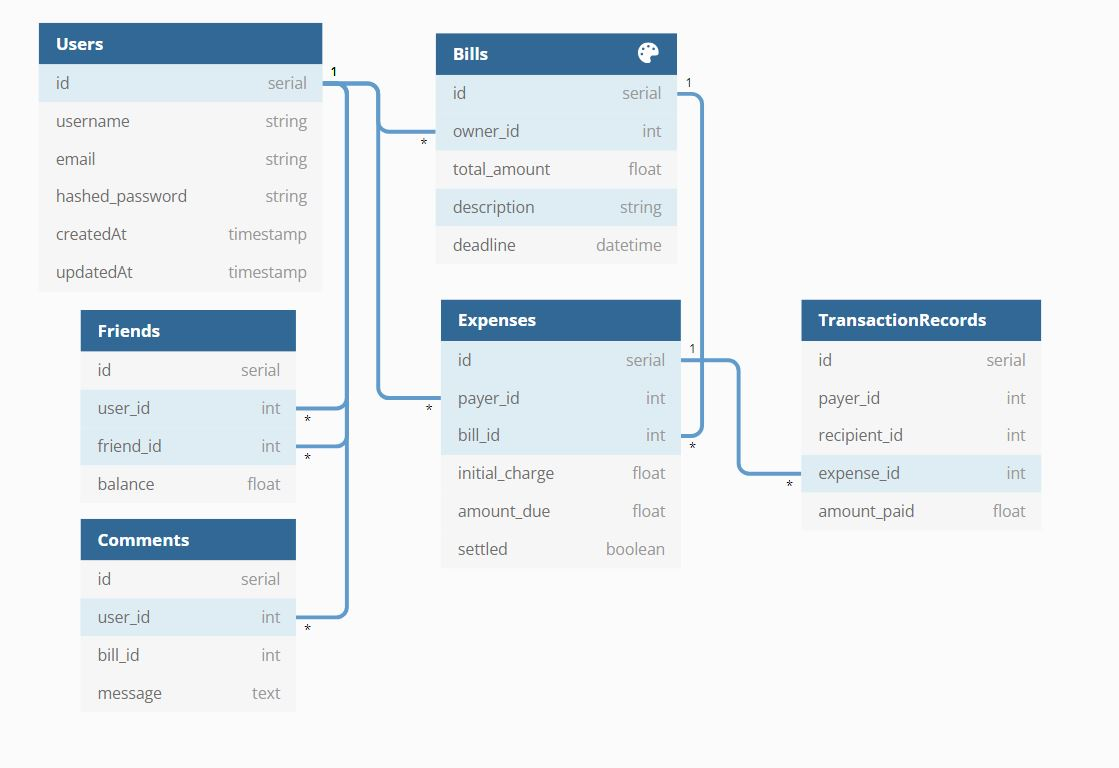
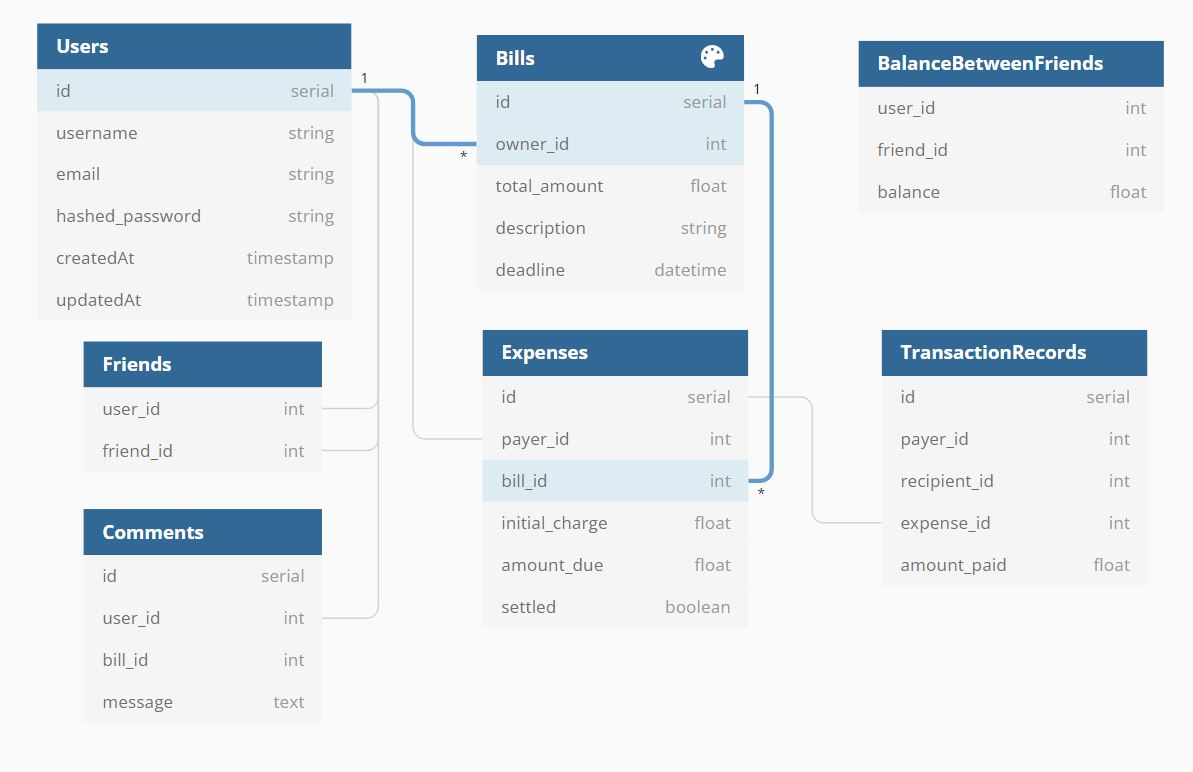
models updated

diff --git a/models.py b/models.py
@@ -1,3 +1,4 @@
+
 class User(db.Model):
     __tablename__ = "users"
 
@@ -25,19 +26,32 @@ class User(db.Model):
     payer_transaction_records = db.relationship("TransactionRecord", back_populates="payer")
     recipient_transaction_records = db.relationship("TransactionRecord", back_populates="recipient")
 
-    user_friends = db.relationship("Friend")
+    user_friends = db.relationship(
+        'User', secondary=friends,
+        primaryjoin=(friends.c.user_id == id),
+        secondaryjoin=(friends.c.friend_id == id),
+        backref=db.backref('friends', lazy='dynamic'), lazy='dynamic'
+    )
+
+friends = db.Table('friends',
+    db.Column('user_id', db.Integer, db.ForeignKey('users.id'), primary_key=True),
+    db.Column('friend_id', db.Integer, db.ForeignKey('users.id'), primary_key=True))
 
 
 
-class Friend(db.Model):
-    __tablename__ = "friends"
+# update balance between me(1) and Viv(2)
+# Viv charges me $20
+# balance_tracker = BalanceBetweenFriends.query.filter(user_id == 1 and friend_id == 2)
+# balance_tracker.balance = -20
+# balance_tracker2 = BalanceBetweenFriends.query.filter(user_id == 2 and friend_id == 1)
+# balance_tracker.balance = 20
 
-    id = db.Column(db.Integer, primary_key=True)
-    user_id = db.Column(db.Integer, db.ForeignKey("users.id"), nullable=False)
-    friend_id = db.Column(db.Integer, db.ForeignKey("users.id"), nullable=False)
+class BalanceBetweenFriends(db.Model):
+    user_id = db.Column(db.Integer)
+    friend_id = db.Column(db.Integer)
     balance = db.Column(db.Numeric(10,2), default=0)
 
-    user_friends = db.relationship("User", back_populates="user_friends")
+
 
 
 class Bill(db.Model):
@@ -54,6 +68,16 @@ class Bill(db.Model):
     comments = db.relationship("Comment", back_populates="bill")
     expenses = db.relationship("Expense", back_populates="bill")
 
+    def to_dict(self):
+        return {
+            'id': self.id,
+            'owner_id': self.owner_id,
+            'total_amount': self.total_amount,
+            'description': self.description,
+            'deadline': self.deadline,
+            'created_at': self.created_at,
+        }
+
 
 class Expense(db.Model):
     __tablename__ = "expenses"
@@ -69,6 +93,16 @@ class Expense(db.Model):
     bill = db.relationship("Bill", back_populates="expenses")
     transaction_records = db.relationship("TransactionRecord", back_populates="expense")
 
+    def to_dict(self):
+        return {
+            'id': self.id,
+            'payer_id': self.payer_id,
+            'bill_id': self.bill_id,
+            'initial_charge': self.initial_charge,
+            'amount_due': self.amount_due,
+            'settled': self.settled,
+        }
+
 
 class Comment(db.Model):
     __tablename__ = "comments"
@@ -81,6 +115,15 @@ class Comment(db.Model):
 
     user = db.relationship("User", back_populates="comments")
     bill = db.relationship("Bill", back_populates="comments")
+
+    def to_dict(self):
+        return {
+            'id': self.id,
+            'user_id': self.user_id,
+            'bill_id': self.bill_id,
+            'message': self.message,
+            'created_at': self.created_at,
+        }
 
 
 class TransactionRecord(db.Model):
@@ -97,3 +140,13 @@ class TransactionRecord(db.Model):
     recipient = db.relationship("User", back_populates="recipient_transaction_records")
 
     expense = db.relationship("Expense", back_populates="transaction_records")
+
+    def to_dict(self):
+        return {
+            'id': self.id,
+            'payer_id': self.payer_id,
+            'recipient_id': self.recipient_id,
+            'expense_id': self.expense_id,
+            'amount_paid': self.amount_paid,
+            'created_at': self.created_at,
+        }
